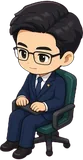
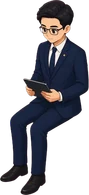
site: 2026-10-31 04:23 台北

diff --git a/app.js b/app.js
@@ -33,16 +33,18 @@ const FLOORS=[
  {id:"num",no:"4F",name:"數值部",who:"青鋒數值 · 遊戲事業部",icon:"ic_num",room:"room_num",member:"num",unit:"game",band:"f4"},
  {id:"qa",no:"3F",name:"品管部",who:"青鋒監管 · 遊戲事業部",icon:"ic_qa",room:"room_qa",member:"qa",unit:"game",band:"f3"},
  {id:"eng",no:"2F",name:"工程部",who:"青鋒工程 修復／介面打磨 · 遊戲事業部",icon:"ic_eng",room:"room_eng",member:"eng",unit:"game",band:"f2"},
- {id:"mz",no:"夾層",name:"公關／財會",who:"青鋒公關 沈沐禾 · 青鋒財會 蒲小棠",icon:"ic_mz",room:"room_mz",unit:"ops",band:"mz"},
+ {id:"mz",no:"夾層",name:"公關／財會",who:"青鋒公關 沈沐禾 · 青鋒財會 蒲小棠（有需要才上班）",icon:"ic_mz",room:"room_mz",unit:"ops",band:"mz"},
  {id:"lobby",no:"1F",name:"大廳",who:"遊戲入口 · 進度 · 路線圖",icon:"ic_lobby",room:"room_lobby",unit:"lobby",band:"lobby"}];
 /* tower.webp 900×1800 樓層 y 帶（manifest）；百分比相對整張圖 */
 /* LED 實測對齊：頂兩薄層併為 9F，其餘一層一帶；lobby 自 1439 */
 const BANDS={f9_top:[202,349],f8:[349,490],f7:[490,629],f6:[629,769],f5:[769,906],f4:[906,1042],f3:[1042,1178],f2:[1178,1360],mz:[1360,1455],lobby:[1455,1799]};
 const TOWER_H=1800;
 /* 座位：room2 floor_y/520；view back=背對螢幕 */
-const SPOT={weixiang:{f:"director",x:.30,y:.70,floor:.75},zhiya:{f:"dev",x:.52,y:.68,floor:.74},art:{f:"art",x:.34,y:.66,floor:.73},num:{f:"num",x:.44,y:.70,floor:.75},qa:{f:"qa",x:.58,y:.68,floor:.74},eng:{f:"eng",x:.48,y:.74,floor:.81},trade:{f:"trade",x:.38,y:.58,floor:.72},pr:{f:"mz",x:.28,y:.58,floor:.70},fin:{f:"mz",x:.72,y:.58,floor:.70}};
-/* 半寫實正常比例：以房間高度比例對家具；eng 機櫃區略小、總裁室略大 */
-const ROOM_SCALE={director:.44,council:.42,trade:.34,mz:.34,lobby:.42,dev:.42,art:.41,num:.41,qa:.41,eng:.38};
+const SPOT={weixiang:{f:"director",x:.30,y:.70,floor:.75},zhiya:{f:"dev",x:.52,y:.68,floor:.74},art:{f:"art",x:.34,y:.66,floor:.73},num:{f:"num",x:.44,y:.70,floor:.75},qa:{f:"qa",x:.58,y:.68,floor:.74},eng:{f:"eng",x:.48,y:.74,floor:.81},trade:{f:"trade",x:.46,y:.71,floor:.74},pr:{f:"mz",x:.32,y:.52,floor:.52,sitX:.25,sitY:.68},fin:{f:"mz",x:.72,y:.52,floor:.55}};
+/* 半寫實比例：一般樓層＝房間高度比；等角 7F／夾層＝房間寬度比（站姿≈2.2×桌高＝242/源圖寬） */
+const ROOM_SCALE={director:.44,council:.42,trade:242/1761,mz:242/1630,lobby:.42,dev:.42,art:.41,num:.41,qa:.41,eng:.38};
+const ISO_SIT_RATIO=179/242; /* 坐姿／站姿（源圖 179px／242px） */
+const ISO_SCALE_BY_WIDTH={trade:1,mz:1}; /* 等角用寬度當基準 */
 const SEAT={weixiang:.29,zhiya:.37,art:.45,num:.53,qa:.61,eng:.69}; const TABLE_TOP=.62;
 const NAMES={weixiang:"偉翔",zhiya:"智雅",art:"青鋒美術",num:"青鋒數值",qa:"青鋒監管",eng:"青鋒工程",council:"全員會議",trade:"青鋒交易",pr:"沈沐禾",fin:"蒲小棠"};
 const SHORT={weixiang:"偉翔",zhiya:"智雅",art:"美術",num:"數值",qa:"監管",eng:"工程",trade:"交易",pr:"公關",fin:"財會"};
@@ -71,23 +73,16 @@ function meetingNow(){
 function meeters(){return ["zhiya","art","num","qa","eng"].concat(D&&D.weixiangJoins?["weixiang"]:[]);}
 function memberState(id){
   if(id==="pr"||id==="fin"){
-    const min=nowMin();
     const role=id==="pr"
       ?"遊戲公關：商店上架、IG／脆小編（只起草，不上傳）"
       :"財會：用量與花費、模擬帳核對";
-    const name=id==="pr"?"沈沐禾":"蒲小棠";
-    // 即時狀態優先（含「等你」）
+    // 例行已暫停：有需要才上班。即時「等你／工作中」才算在班，其餘閒晃
     const lv=D&&D.live&&D.live[id];
     if(lv&&lv.status&&LIVEMAP[lv.status]){
       const age=(Date.now()-parseTP(lv.updatedAt))/60000;
       if(age>=0&&age<180) return{cat:LIVEMAP[lv.status],text:lv.task||lv.status,full:lv.task||role,where:"desk",live:true,updatedAt:lv.updatedAt,since:parseTP(lv.updatedAt)};
     }
-    // 只在排程時段算工作中，其餘可閒晃
-    const sc=(D&&D.schedule||[]).filter(x=>x.who===id);
-    const cur=sc.find(x=>min>=mm(x.from)&&min<mm(x.to));
-    if(cur) return{cat:"work",text:cur.what,full:cur.what+"（"+cur.from+"–"+cur.to+"）",where:"desk",live:false};
-    const nx=sc.find(x=>min<mm(x.from));
-    return{cat:"wait",text:nx?(nx.from+" 開工"):"下班／待命",full:role,where:"desk",live:false};
+    return{cat:"wait",text:"有需要才上班",full:role+"（例行已暫停，有需要才上班）",where:"desk",live:false};
   }
   if(id==="trade"){
     const tr=D&&D.trade||{}; const perf=tr.perf||{};
@@ -127,10 +122,10 @@ function floorState(f){
     return{cat:"work",label:"模擬營運中",text:total?(`行情已連線 ${ok}/${total}`):"模擬交易 · 非投資建議"};
   }
   if(f.id==="mz"){
-    const min=nowMin();
-    if((min>=16*60&&min<16*60+30)||(min>=15*60&&min<15*60+30&&tpNow().getUTCDay()===0)) return{cat:"work",label:"起草中",text:"沈沐禾更新草稿（只起草不發文）"};
-    if(min>=21*60&&min<21*60+30) return{cat:"work",label:"核帳中",text:"蒲小棠核對用量與模擬帳"};
-    return{cat:"wait",label:"待命",text:"16:00 公關草稿 · 21:00 財會核帳"};
+    const pr=memberState("pr"), fin=memberState("fin");
+    if(pr.cat==="you"||fin.cat==="you") return{cat:"you",label:"等你",text:pr.cat==="you"?pr.text:fin.text};
+    if(pr.cat==="work"||fin.cat==="work") return{cat:"work",label:"處理中",text:pr.cat==="work"?pr.text:fin.text};
+    return{cat:"wait",label:"有需要才上班",text:"公關／財會例行已暫停"};
   }
   if(f.id==="director"){const a=typeof usageAlert==="function"?usageAlert():{level:""};
     if(a.level==="red")return{cat:"you",label:"額度警示",text:a.short||"可能額度用完或例行失敗"};
@@ -327,7 +322,14 @@ function placeChar(c,now){
       c.x=sp.x; c.y=sp.floor; c.pose="present"; c.view="front"; c.stroll=null; c.bobNeed=true; return;
     }
     if(beh.mode==="stuck"||beh.mode==="work"){
-      c.x=sp.x; c.y=sp.y; c.pose="sit"; c.view="front"; c.stroll=null; c.bobNeed=false; return;
+      // 7F：坐圓桌椅（坐姿圖不含椅子）。夾層無辦公椅：站／present 在桌邊；公關可改坐懶骨頭
+      if(c.id==="trade"){
+        c.x=sp.x; c.y=sp.y; c.pose="sit"; c.view="front"; c.stroll=null; c.bobNeed=false; return;
+      }
+      if(c.id==="pr"&&beh.mode==="stuck"&&sp.sitX!=null){
+        c.x=sp.sitX; c.y=sp.sitY; c.pose="sit"; c.view="front"; c.stroll=null; c.bobNeed=false; return;
+      }
+      c.x=sp.x; c.y=sp.floor!=null?sp.floor:sp.y; c.pose="present"; c.view="front"; c.stroll=null; c.bobNeed=false; return;
     }
     // wander
     placeIsoWander(c,now,beh); return;
@@ -380,7 +382,7 @@ function loop(now){
       ctx.save();if(c.clip){ctx.beginPath();ctx.rect(0,0,cv.width,c.clip*cv.height);ctx.clip();}
       if(c.x<1.02&&c.x>-.02){ctx.fillStyle="rgba(0,0,0,.35)";if(!c.clip){ctx.beginPath();ctx.ellipse(x,y+u*.3,5*u,1.4*u,0,0,7);ctx.fill();}
         const im=sprite(c.id,spritePose(c,now));
-        if(im.complete&&im.naturalWidth){const sc=ROOM_SCALE[k]||.42,dh=(c.pose==="sit"||c.pose==="type"?sc*.78:sc)*cv.height,dw=dh*.8,top=y+b-dh*.95;
+        if(im.complete&&im.naturalWidth){const sc=ROOM_SCALE[k]||.42,iso=!!ISO_SCALE_BY_WIDTH[k],base=iso?sc*cv.width:sc*cv.height,sitMul=iso?ISO_SIT_RATIO:.78,dh=(c.pose==="sit"||c.pose==="type"?base*sitMul:base),dw=dh*(im.naturalWidth/im.naturalHeight),top=y+b-dh*.95;
           ctx.imageSmoothingEnabled=true;ctx.imageSmoothingQuality="high";
           if(c.dir===-1&&c.pose==="walk"){ctx.translate(x,0);ctx.scale(-1,1);ctx.drawImage(im,-dw/2,top,dw,dh);}
           else ctx.drawImage(im,x-dw/2,top,dw,dh);}}
@@ -991,9 +993,8 @@ function floorVizHTML(id){
     return `<div class="fv-chips">${top}</div><span class="fv-cap">${dec.length} 項決定</span>`;
   }
   if(id==="mz"){
-    const min=nowMin();
-    const on=(min>=16*60&&min<16*60+30)||(min>=21*60&&min<21*60+30);
-    return lightHTML(on?"green":"yellow")+`<span class="fv-cap">${on?"公關／財會工作中":"公關／財會待命"} · 16:00 草稿／21:00 核帳</span>`;
+    const prS=memberState("pr"),finS=memberState("fin"); const busy=prS.cat==="work"||finS.cat==="work"||prS.cat==="you"||finS.cat==="you";
+    return lightHTML(busy?"green":"yellow")+`<span class="fv-cap">${busy?"公關／財會處理中":"有需要才上班"}</span>`;
   }
   if(id==="lobby"){
     const b=D.backlog||{}; const p=b.total?Math.round(b.done/b.total*100):0;
@@ -1750,7 +1751,7 @@ function renderRoomDash(){
     el.innerHTML=`<div class="card"><h2>${id==="dev"?"開發發版":"工程修復"}</h2>${floorBriefHTML(id==="dev"?("目前版本 "+v+"。"):"修 bug 與介面打磨。")}${pipeHTML((D.dev||{}).pipeline)}</div>`; return;
   }
   if(id==="mz"){
-    el.innerHTML=`<div class="card"><h2>夾層 · 公關／財會</h2>${floorBriefHTML("沈沐禾（公關，只起草不上傳）與蒲小棠（財會核對）。每天約 16:00 草稿、21:00 核帳。")}${keyCardsHTML([{v:"沈沐禾",l:"公關"},{v:"蒲小棠",l:"財會"},{v:"16:00／21:00",l:"排程"}])}</div>`; return;
+    el.innerHTML=`<div class="card"><h2>夾層 · 公關／財會</h2>${floorBriefHTML("沈沐禾（公關，只起草不上傳）與蒲小棠（財會核對）。例行已暫停，有需要才上班。")}${keyCardsHTML([{v:"沈沐禾",l:"公關"},{v:"蒲小棠",l:"財會"},{v:"有需要才上班",l:"狀態"}])}</div>`; return;
   }
   if(id==="lobby"){
     el.innerHTML=`<div class="card"><h2>遊戲入口</h2>${floorBriefHTML("從這裡進遊戲，也可看待辦與排程。")}<div class="play"><div class="ver">目前版本 <b>${esc(D.game.version)}</b><br>${esc(D.game.subtitle)}</div><a class="btn" target="_blank" rel="noopener" href="${esc(D.game.url)}">進入遊戲</a></div></div>`; return;
@@ -1978,11 +1979,11 @@ function openFloor(id){const f=FLOORS.find(x=>x.id===id);let h=head(f);
     h+=memberBtn("eng");
   }
   if(id==="mz"){
-    h+=floorBriefHTML("這層是夾層・公關／財會。左邊沈沐禾負責遊戲公關（商店上架、IG／脆小編，只起草不上傳）；右邊蒲小棠負責財會（用量與花費、模擬帳核對）。沈沐禾每天約 16:00 更新草稿、週日約 15:00 排下週貼文；蒲小棠每天約 21:00 核帳。");
+    h+=floorBriefHTML("這層是夾層・公關／財會。左邊沈沐禾負責遊戲公關（商店上架、IG／脆小編，只起草不上傳）；右邊蒲小棠負責財會（用量與花費、模擬帳核對）。例行已暫停，有需要才上班。");
     h+=keyCardsHTML([
       {v:"沈沐禾",l:"青鋒公關",note:"只起草，不上傳"},
       {v:"蒲小棠",l:"青鋒財會",note:"用量／模擬帳"},
-      {v:"16:00／21:00",l:"每日排程",note:"週日 15:00 加排貼文"},
+      {v:"有需要才上班",l:"狀態",note:"例行已暫停"},
     ]);
     h+=`<h4>兩位同事</h4><div class="plain-list">
       <div class="vcard"><b>沈沐禾 · 青鋒公關</b><div class="muted">遊戲公關：商店上架文案、IG／脆貼文——只起草，不上傳；等你拍板。</div>${memberBtn("pr")}</div>

diff --git a/iso_states.js b/iso_states.js
@@ -8,23 +8,30 @@
   var ISO_IDS = { trade: 1, pr: 1, fin: 1 };
 
   /** 手點座標：相對房間 0–1；走路時用 walk，停靠用 stand→present 立繪 */
+  /** 站立點須在地板上（非桌面／欄杆外）。座標相對房間 0–1。 */
   var ISO_WANDER = {
     trade: [
-      { x: 0.48, y: 0.72, label: "圓桌" },
-      { x: 0.78, y: 0.62, label: "飲水機" },
-      { x: 0.68, y: 0.55, label: "窗邊" },
-      { x: 0.20, y: 0.70, label: "欄杆" }
+      { x: 0.50, y: 0.74, label: "圓桌旁" },
+      { x: 0.78, y: 0.64, label: "飲水機" },
+      { x: 0.66, y: 0.58, label: "窗邊地板" },
+      { x: 0.22, y: 0.72, label: "欄杆內側" }
     ],
     pr: [
-      { x: 0.18, y: 0.78, label: "懶骨頭" },
-      { x: 0.22, y: 0.50, label: "環形燈" },
-      { x: 0.42, y: 0.55, label: "窗邊" }
+      { x: 0.25, y: 0.68, label: "懶骨頭旁" },
+      { x: 0.18, y: 0.55, label: "環形燈" },
+      { x: 0.42, y: 0.58, label: "窗邊地板" }
     ],
     fin: [
-      { x: 0.88, y: 0.55, label: "金庫旁" },
-      { x: 0.60, y: 0.55, label: "窗邊" },
-      { x: 0.75, y: 0.78, label: "走道" }
+      { x: 0.86, y: 0.58, label: "金庫旁" },
+      { x: 0.62, y: 0.58, label: "窗邊地板" },
+      { x: 0.74, y: 0.72, label: "走道" }
     ]
+  };
+
+  /** 站姿高度／房間寬（源圖 242px／房間寬）；坐姿比＝179/242 */
+  var ISO_SCALE = {
+    trade: { standOverWidth: 242 / 1761, sitRatio: 179 / 242, deskPx: 110, standPx: 242 },
+    mz: { standOverWidth: 242 / 1630, sitRatio: 179 / 242, deskPx: 100, standPx: 242 }
   };
 
   var STUCK_MS = 3 * 3600 * 1000; // 3 小時
@@ -81,7 +88,7 @@
     if (force === "stuck") {
       return {
         mode: "stuck",
-        pose: "sit",
+        pose: id === "trade" ? "sit" : "present",
         tag: "好像卡住了",
         bubble: "好像卡住了",
         detail: "（預覽）從稍早之後沒有進度更新",
@@ -101,7 +108,7 @@
     if (force === "work") {
       return {
         mode: "work",
-        pose: "sit",
+        pose: id === "trade" ? "sit" : "present",
         tag: "",
         bubble: baseText || "工作中",
         detail: baseFull || baseText || "工作中",
@@ -125,7 +132,7 @@
     if (sk) {
       return {
         mode: "stuck",
-        pose: "sit",
+        pose: id === "trade" ? "sit" : "present",
         tag: "好像卡住了",
         bubble: "好像卡住了",
         detail: sk.detail,
@@ -136,7 +143,7 @@
     if (baseCat === "work" || baseCat === "meet") {
       return {
         mode: "work",
-        pose: "sit",
+        pose: id === "trade" ? "sit" : "present",
         tag: "",
         bubble: baseText || "工作中",
         detail: baseFull || baseText || "工作中",
@@ -238,6 +245,7 @@
   var api = {
     ISO_IDS: ISO_IDS,
     ISO_WANDER: ISO_WANDER,
+    ISO_SCALE: ISO_SCALE,
     STUCK_MS: STUCK_MS,
     parseForce: parseForce,
     pickIsoBehavior: pickIsoBehavior,
